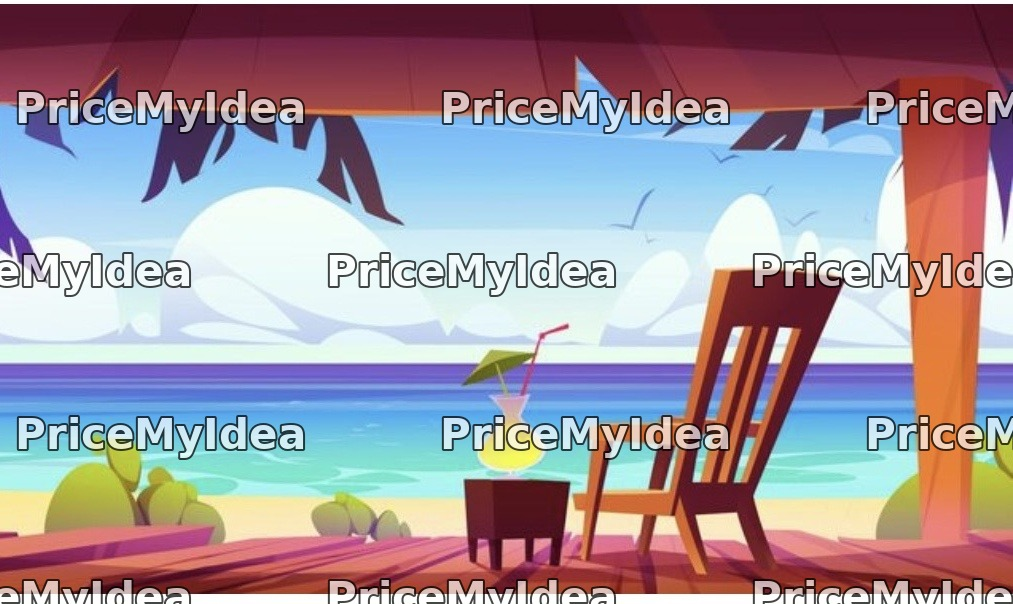
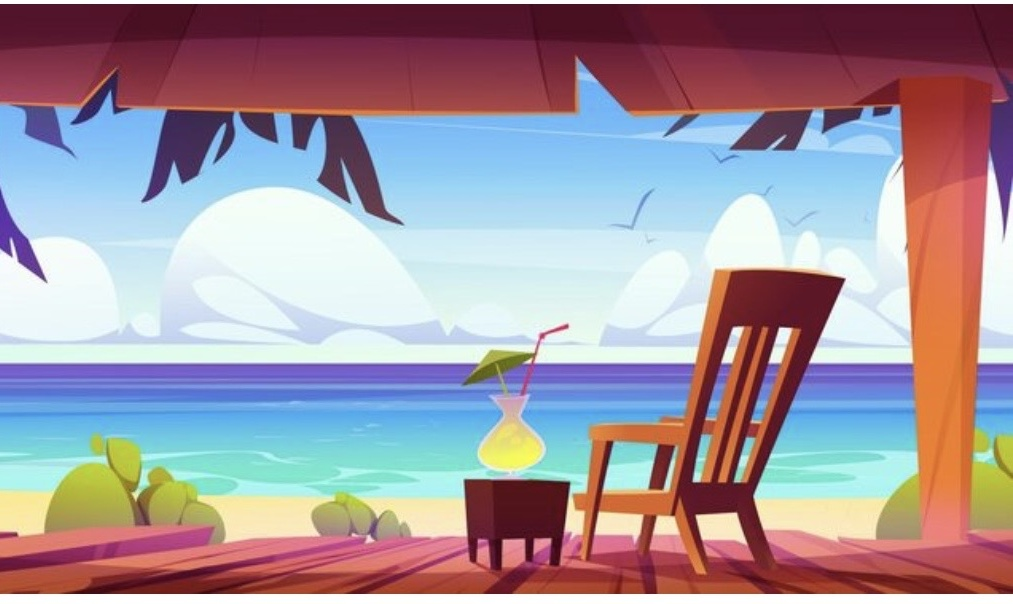
updated watermarks

diff --git a/pages/pricing-guides.html b/pages/pricing-guides.html
@@ -22,7 +22,7 @@
  </div>
  </div>
 </header>
-<main class="container content-page"><section class="card page-hero"><div class="eyebrow">Pricing Guides</div><h1>Creative Pricing Guides</h1><p>In-depth breakdowns for creative projects. This starter build includes example cards and can be expanded into SEO-driven guide pages later.</p></section><section class="guide-grid"><article class="card guide-card"><div class="thumb" style="background-image:url('../assets/beach-animation-cover.jpg?v=watermark-v16'); background-position:center center"></div><h3>2D Animation Cost</h3><p>How much does 2D animation cost per minute? Learn what changes the range.</p><a class="muted-link" href="calculator.html">Get estimate →</a></article><article class="card guide-card"><div class="thumb" style="background-image:url('../assets/illustration-cover-cropped.jpg?v=watermark-v16'); background-position:center 34%"></div><h3>Illustration Cost</h3><p>The user-provided illustration cover is used here as a sample project-type visual.</p><a class="muted-link" href="calculator.html?category=illustration">Get estimate →</a></article><article class="card guide-card"><div class="thumb" style="background-image:url('../assets/frontpage-bg-cropped.jpg?v=watermark-v16'); background-position:center 26%"></div><h3>Comic / Manga Cost</h3><p>Page rates, covers, line art, and coloring costs for indie comic work.</p><a class="muted-link" href="calculator.html?category=comic">Get estimate →</a></article></section></main>
+<main class="container content-page"><section class="card page-hero"><div class="eyebrow">Pricing Guides</div><h1>Creative Pricing Guides</h1><p>In-depth breakdowns for creative projects. This starter build includes example cards and can be expanded into SEO-driven guide pages later.</p></section><section class="guide-grid"><article class="card guide-card"><div class="thumb" style="background-image:url('../assets/beach-animation-cover.jpg?v=small-only-v19'); background-position:center center"></div><h3>2D Animation Cost</h3><p>How much does 2D animation cost per minute? Learn what changes the range.</p><a class="muted-link" href="calculator.html">Get estimate →</a></article><article class="card guide-card"><div class="thumb" style="background-image:url('../assets/illustration-cover-cropped.jpg?v=small-only-v19'); background-position:center 34%"></div><h3>Illustration Cost</h3><p>The user-provided illustration cover is used here as a sample project-type visual.</p><a class="muted-link" href="calculator.html?category=illustration">Get estimate →</a></article><article class="card guide-card"><div class="thumb" style="background-image:url('../assets/frontpage-bg-cropped.jpg?v=small-only-v19'); background-position:center 26%"></div><h3>Comic / Manga Cost</h3><p>Page rates, covers, line art, and coloring costs for indie comic work.</p><a class="muted-link" href="calculator.html?category=comic">Get estimate →</a></article></section></main>
 <footer class="footer">
  <div class="container">
  <div>© 2026 <strong>PriceMyIdea</strong>. Creative pricing shouldn’t be a mystery.</div>

diff --git a/styles.css b/styles.css
@@ -76,7 +76,7 @@ img { max-width: 100%; display: block; }
  position: absolute; inset: 0;
  background:
  linear-gradient(90deg, rgba(6,16,31,.95) 0%, rgba(6,16,31,.82) 42%, rgba(6,16,31,.56) 68%, rgba(6,16,31,.84) 100%),
- url('assets/frontpage-bg-cropped.jpg?v=watermark-v16') center center / cover no-repeat;
+ url('assets/frontpage-bg-cropped.jpg?v=small-only-v19') center center / cover no-repeat;
  filter: saturate(1.05);
 }
 .hero .container { position: relative; z-index: 1; }
